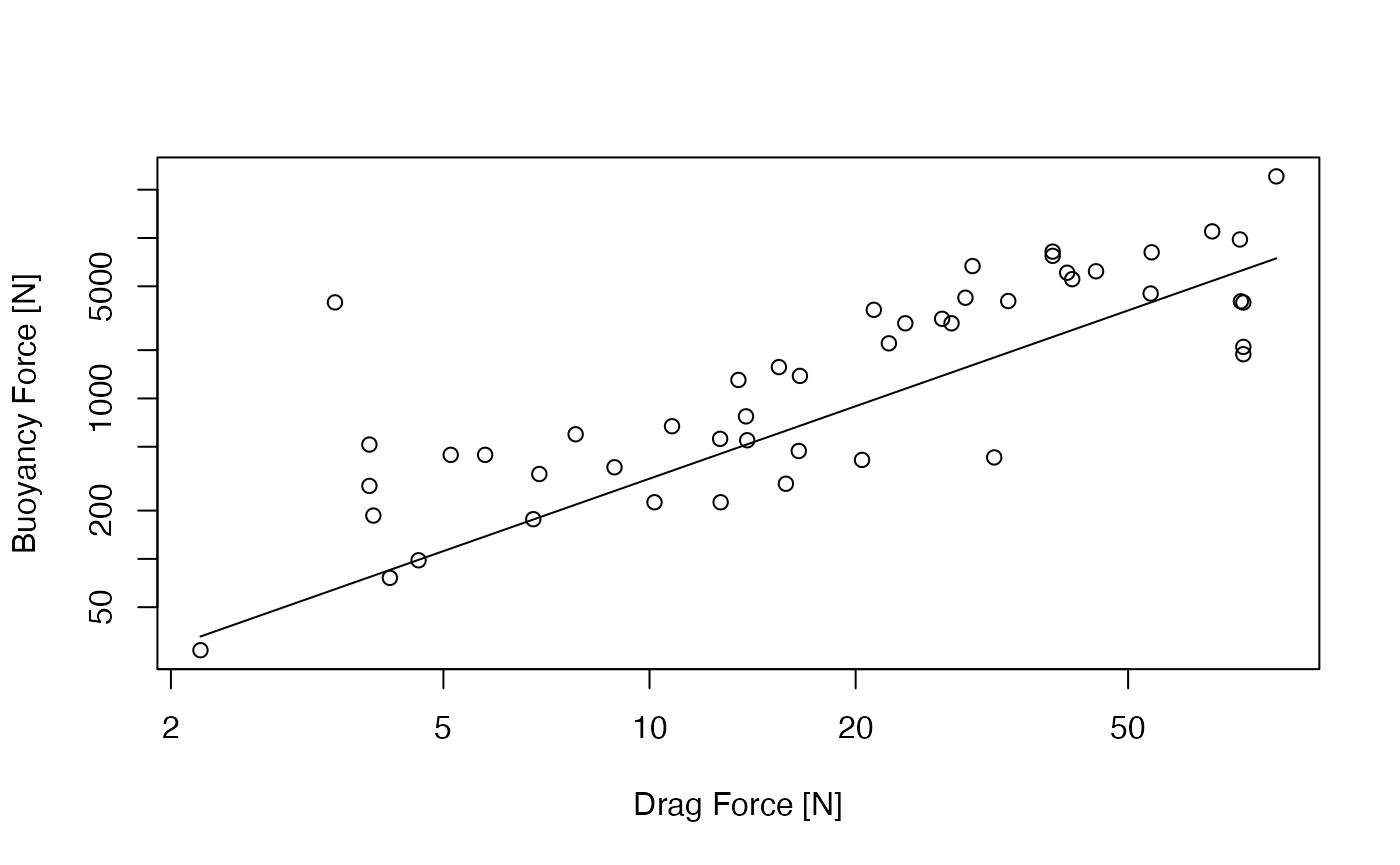
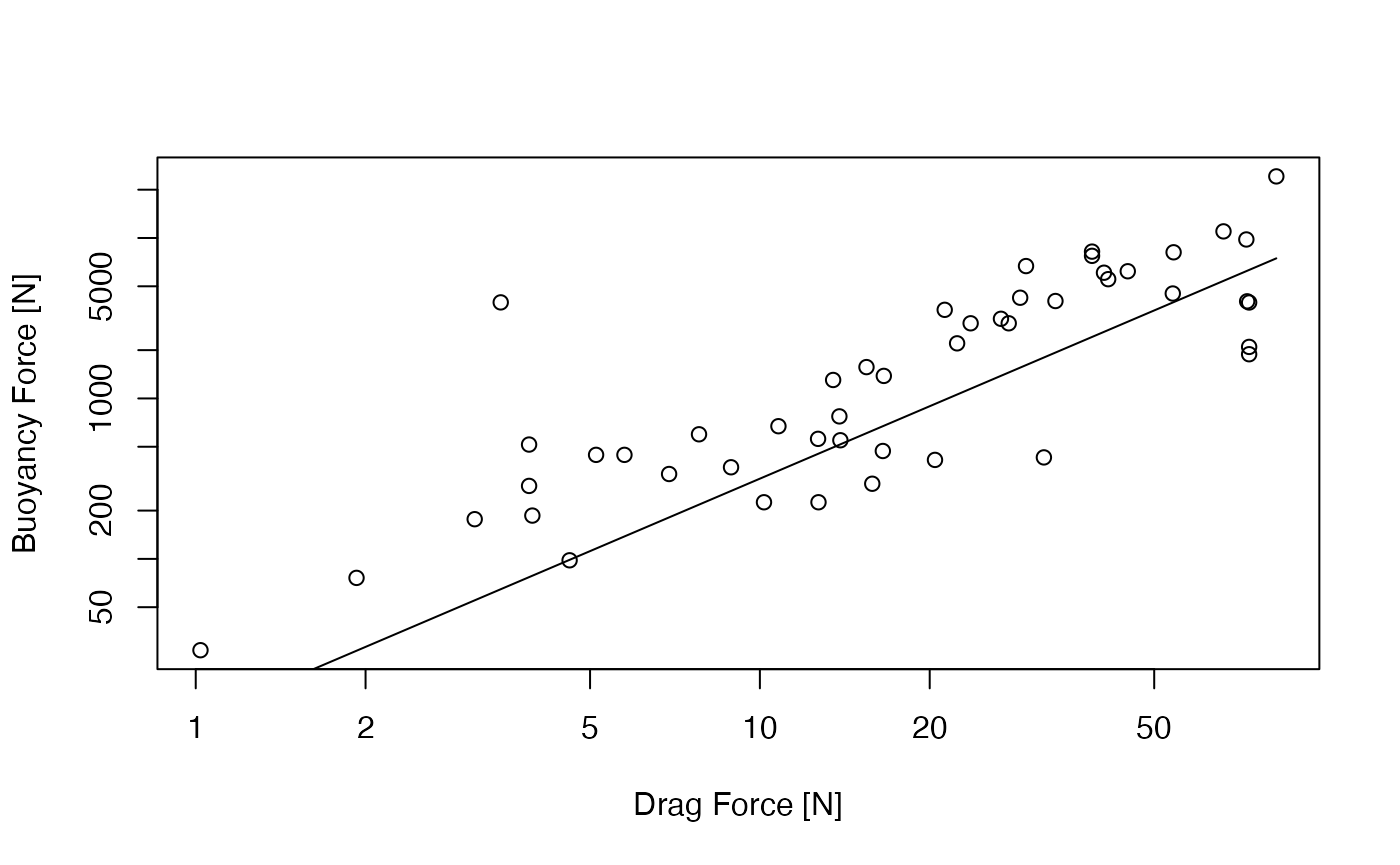
alter CD for CMAR floats (Thanks, NT)

diff --git a/docs/reference/mooringElements.html b/docs/reference/mooringElements.html
@@ -237,9 +237,9 @@ http://canuck.seos.uvic.ca/rkd/mooring/moordyn.php</p>
 <span class="r-out co"><span class="r-pr">#&gt;</span> 12  stablemoor 580lb 1500 msw with ADCP  213.780 1.2860 2.34300000 0.60   NA</span>
 <span class="r-out co"><span class="r-pr">#&gt;</span> 13         syn. float with ADCP bracket  839.180 2.4200 1.23400000 0.60   NA</span>
 <span class="r-out co"><span class="r-pr">#&gt;</span> 14   syn. float, bracket and 109lb ADCP  789.800 2.4200 1.23400000 0.60   NA</span>
-<span class="r-out co"><span class="r-pr">#&gt;</span> 15              14in centre hole tfloat   18.040 0.3560 0.09931500 1.30   NA</span>
-<span class="r-out co"><span class="r-pr">#&gt;</span> 16              11in centre hole tfloat    7.770 0.2790 0.06131200 1.30   NA</span>
-<span class="r-out co"><span class="r-pr">#&gt;</span> 17               8in centre hole tfloat    2.752 0.2030 0.03242900 1.30   NA</span>
+<span class="r-out co"><span class="r-pr">#&gt;</span> 15              14in centre hole tfloat   18.040 0.3560 0.09931500 0.60   NA</span>
+<span class="r-out co"><span class="r-pr">#&gt;</span> 16              11in centre hole tfloat    7.770 0.2790 0.06131200 0.60   NA</span>
+<span class="r-out co"><span class="r-pr">#&gt;</span> 17               8in centre hole tfloat    2.752 0.2030 0.03242900 0.60   NA</span>
 <span class="r-out co"><span class="r-pr">#&gt;</span> 18                             61in ORE  999.000 1.6500 2.13824650 0.65    1</span>
 <span class="r-out co"><span class="r-pr">#&gt;</span> 19                             48in ORE  620.000 1.2340 1.19596977 0.65    1</span>
 <span class="r-out co"><span class="r-pr">#&gt;</span> 20                             41in ORE  433.000 1.0400 0.84948665 0.65    1</span>

diff --git a/docs/articles/mooring_elements.html b/docs/articles/mooring_elements.html
@@ -702,7 +702,7 @@ the Dewey data, area is computed from stated float diameter.</p>
 <td align="right">7.770</td>
 <td align="right">0.2790</td>
 <td align="right">0.0613120</td>
-<td align="right">1.30</td>
+<td align="right">0.60</td>
 <td align="left">CMAR</td>
 <td align="left">11in centre hole tfloat</td>
 </tr>
@@ -711,7 +711,7 @@ the Dewey data, area is computed from stated float diameter.</p>
 <td align="right">18.040</td>
 <td align="right">0.3560</td>
 <td align="right">0.0993150</td>
-<td align="right">1.30</td>
+<td align="right">0.60</td>
 <td align="left">CMAR</td>
 <td align="left">14in centre hole tfloat</td>
 </tr>
@@ -819,7 +819,7 @@ the Dewey data, area is computed from stated float diameter.</p>
 <td align="right">2.752</td>
 <td align="right">0.2030</td>
 <td align="right">0.0324290</td>
-<td align="right">1.30</td>
+<td align="right">0.60</td>
 <td align="left">CMAR</td>
 <td align="left">8in centre hole tfloat</td>
 </tr>
